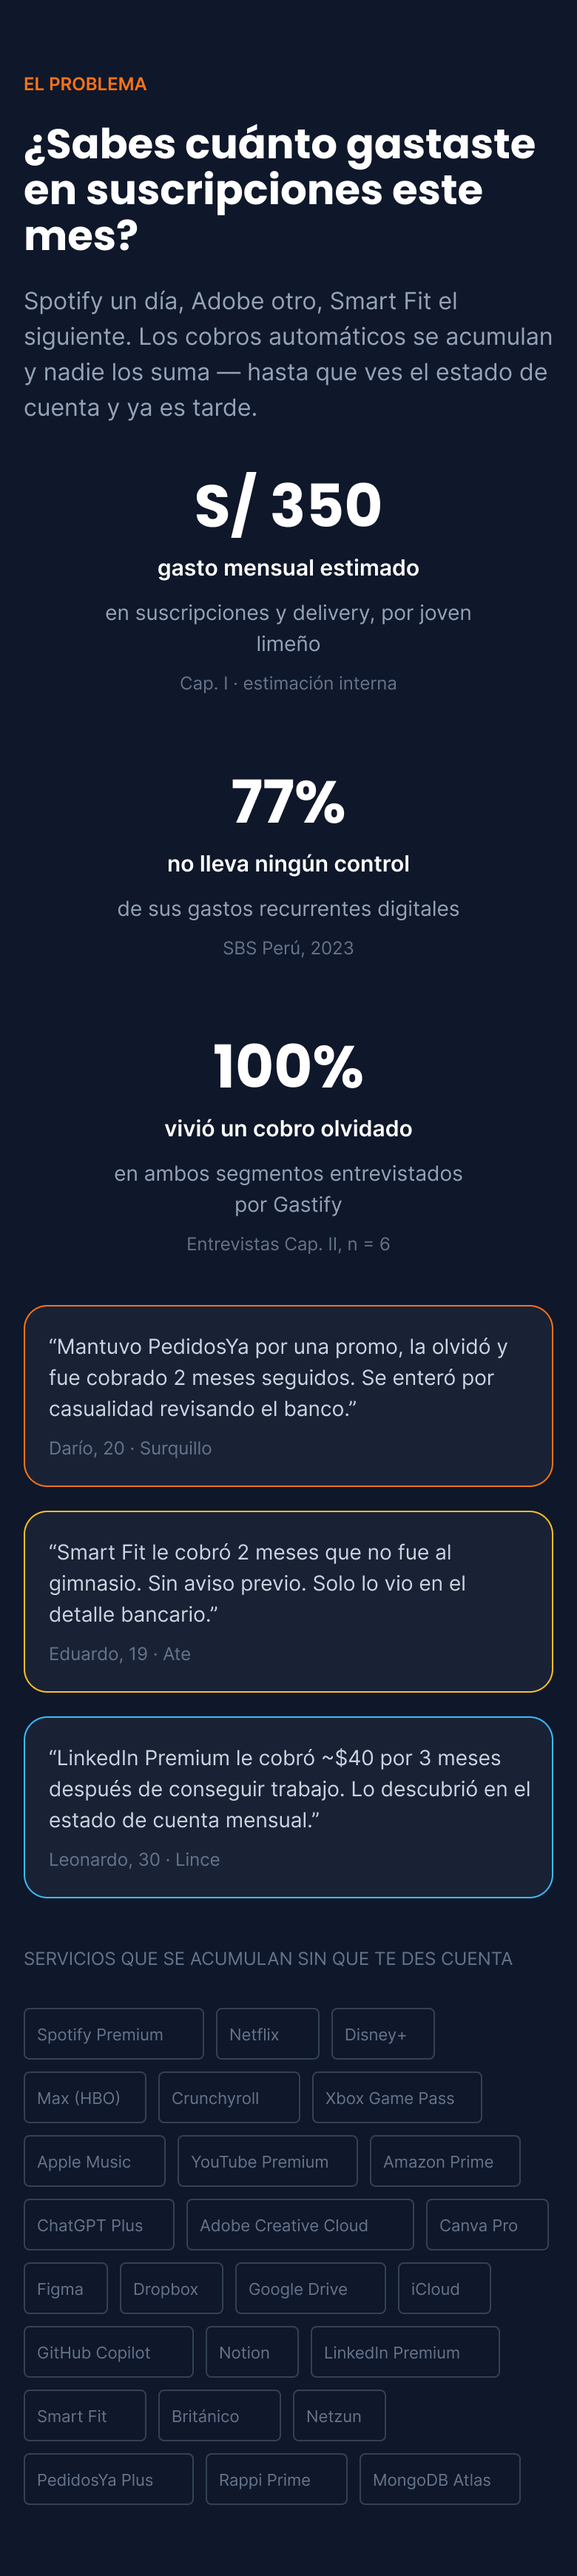
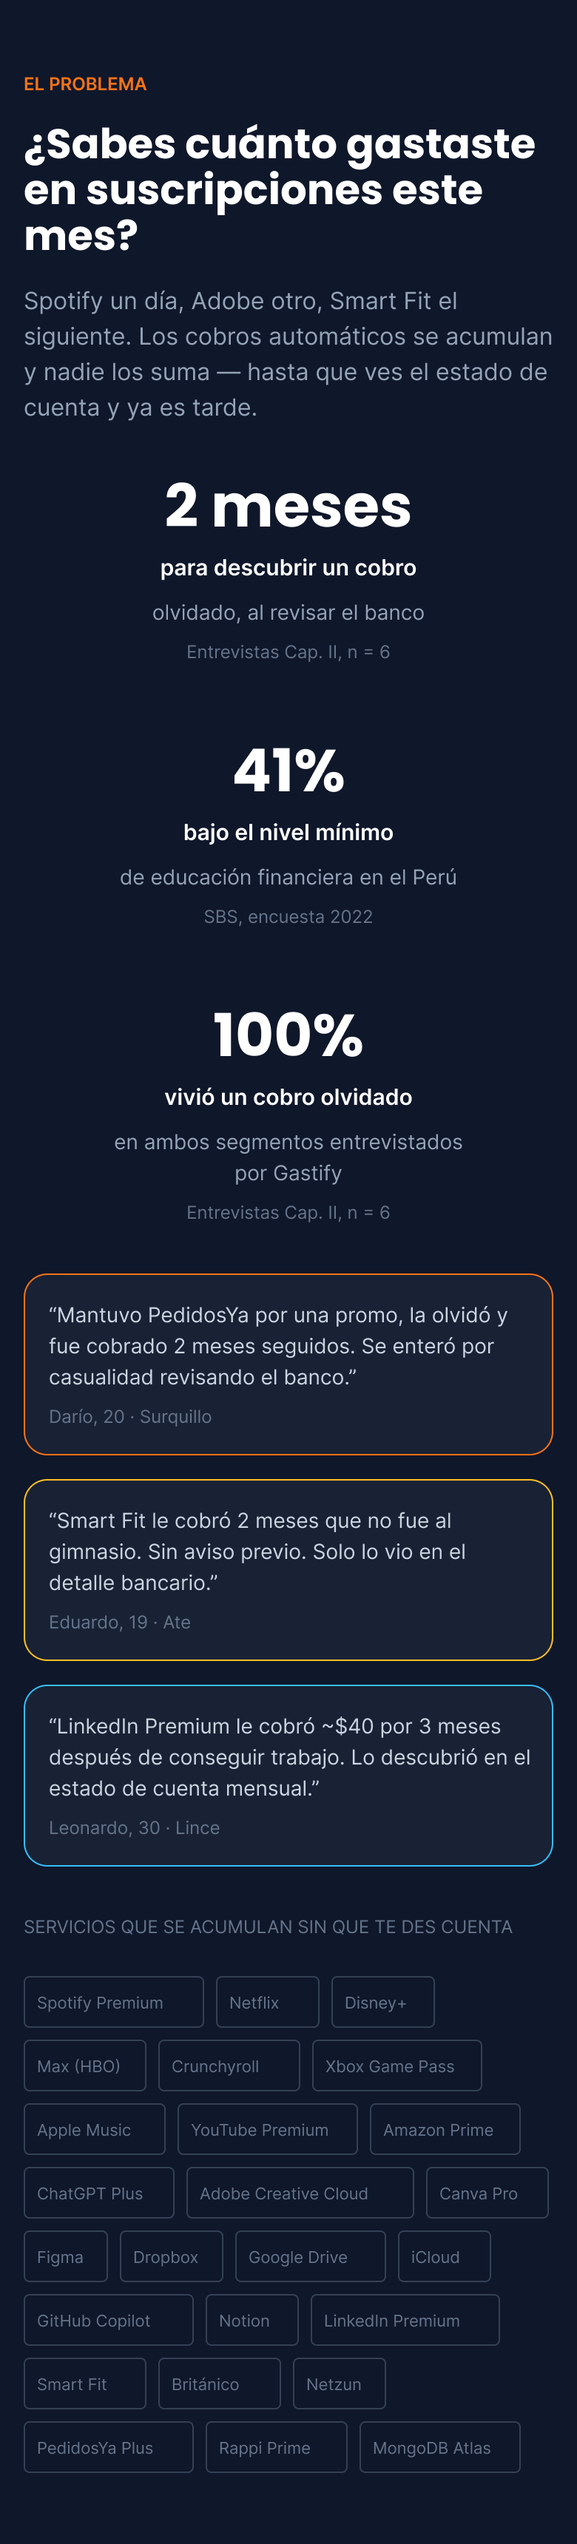
docs(chapter-3): corregir las cifras del landing con datos sustentados
Las estadísticas de la sección El problema pasan a 2 meses, 41 % y 100 %,
con fuente en las entrevistas del capítulo II y la encuesta de la SBS, y la
garantía de descarga dice "Sin conectar tu banco". Se reemplazan las
capturas del wireframe y del mock-up afectadas.

diff --git a/docs/chapter_3.md b/docs/chapter_3.md
@@ -1087,7 +1087,7 @@ La sección de problema mantiene el fondo oscuro `color-on-surface` para crear c
 
 El titular "¿Sabes cuánto gastaste en suscripciones este mes?" utiliza Poppins SemiBold 32px en blanco, formulado como pregunta retórica para activar la identificación del usuario con el problema. Le sigue una bajada en Inter Regular 16px que nombra marcas específicas (Spotify, Adobe, Smart Fit) para anclar el problema en la experiencia cotidiana del segmento objetivo.
 
-Las tres estadísticas cuantitativas (S/ 350, 77%, 100%) emplean Poppins Bold 48px (el tamaño de monto principal del sistema tipográfico) para maximizar el impacto de los datos. Bajo cada cifra, una fuente de dato en Inter Regular 12px (`color-on-surface-variant`) mantiene la trazabilidad académica sin interrumpir el flujo visual. Los tres testimonios de usuario se presentan en tarjetas con borde izquierdo de acento (`color-primary`) y tipografía en cursiva, aplicando el principio de proximidad de Gestalt para agrupar la evidencia cualitativa. La fila de logos de servicios en la parte inferior (Spotify, Netflix, Disney+, Adobe, entre otros) refuerza el reconocimiento de marca y la relevancia del problema mediante el principio de similitud: todos los logos tienen el mismo tamaño y tratamiento visual monocromático.
+Las tres estadísticas cuantitativas emplean Poppins Bold 48px (el tamaño de monto principal del sistema tipográfico) para maximizar el impacto de los datos. Cada una tiene sustento en el informe: hasta 2 meses tardaron los entrevistados en descubrir un cobro olvidado y el 100 % vivió uno (sección 2.2.3), y el 41 % de los adultos peruanos está por debajo del nivel mínimo de educación financiera [@sbs2022capacidades, p. 10]. Bajo cada cifra, una fuente de dato en Inter Regular 12px (`color-on-surface-variant`) mantiene la trazabilidad académica sin interrumpir el flujo visual. Los tres testimonios de usuario se presentan en tarjetas con borde izquierdo de acento (`color-primary`) y tipografía en cursiva, aplicando el principio de proximidad de Gestalt para agrupar la evidencia cualitativa. La fila de logos de servicios en la parte inferior (Spotify, Netflix, Disney+, Adobe, entre otros) refuerza el reconocimiento de marca y la relevancia del problema mediante el principio de similitud: todos los logos tienen el mismo tamaño y tratamiento visual monocromático.
 
 Desde el ángulo del diseño inclusivo, los testimonios incluyen identificación de segmento (edad, ciudad, ocupación) que incrementa la representatividad y facilita la empatía en usuarios de diferentes perfiles dentro del segmento objetivo.
 
@@ -1205,7 +1205,7 @@ La sección de descarga retorna al fondo oscuro `color-on-surface` para el cierr
 
 El botón "Descargar en Android" es el único elemento interactivo de la sección, lo que elimina la competencia de atención y maximiza la tasa de conversión. Lleva el ícono de Play (Google Play Store) en blanco sobre `color-primary`, reproduciendo el patrón visual establecido desde el CTA del Hero. La nota "Requiere Android 9.0 o superior" en Inter Regular 12px `rgba(255,255,255,0.4)` gestiona expectativas técnicas sin ocupar espacio prominente.
 
-La fila de garantías al pie ("Datos locales, sin servidores externos", "Plan gratis siempre disponible", "Hecho para el mercado peruano") aplica el patrón de "trust badges" que reduce la fricción de la última milla antes de la descarga. El uso del separador "→" entre badges crea un ritmo de lectura izquierda-derecha coherente con el patrón de lectura occidental en pantallas amplias. Desde la arquitectura de información, esta sección cierra el esquema secuencial establecido en la sección 3.1.2.1: el usuario que llega aquí ha completado el flujo problema → solución → evidencia → planes → acción.
+La fila de garantías al pie ("Sin conectar tu banco", "Plan gratis siempre disponible", "Hecho para el mercado peruano") aplica el patrón de "trust badges" que reduce la fricción de la última milla antes de la descarga. El uso del separador "→" entre badges crea un ritmo de lectura izquierda-derecha coherente con el patrón de lectura occidental en pantallas amplias. Desde la arquitectura de información, esta sección cierra el esquema secuencial establecido en la sección 3.1.2.1: el usuario que llega aquí ha completado el flujo problema → solución → evidencia → planes → acción.
 
 ***
 
